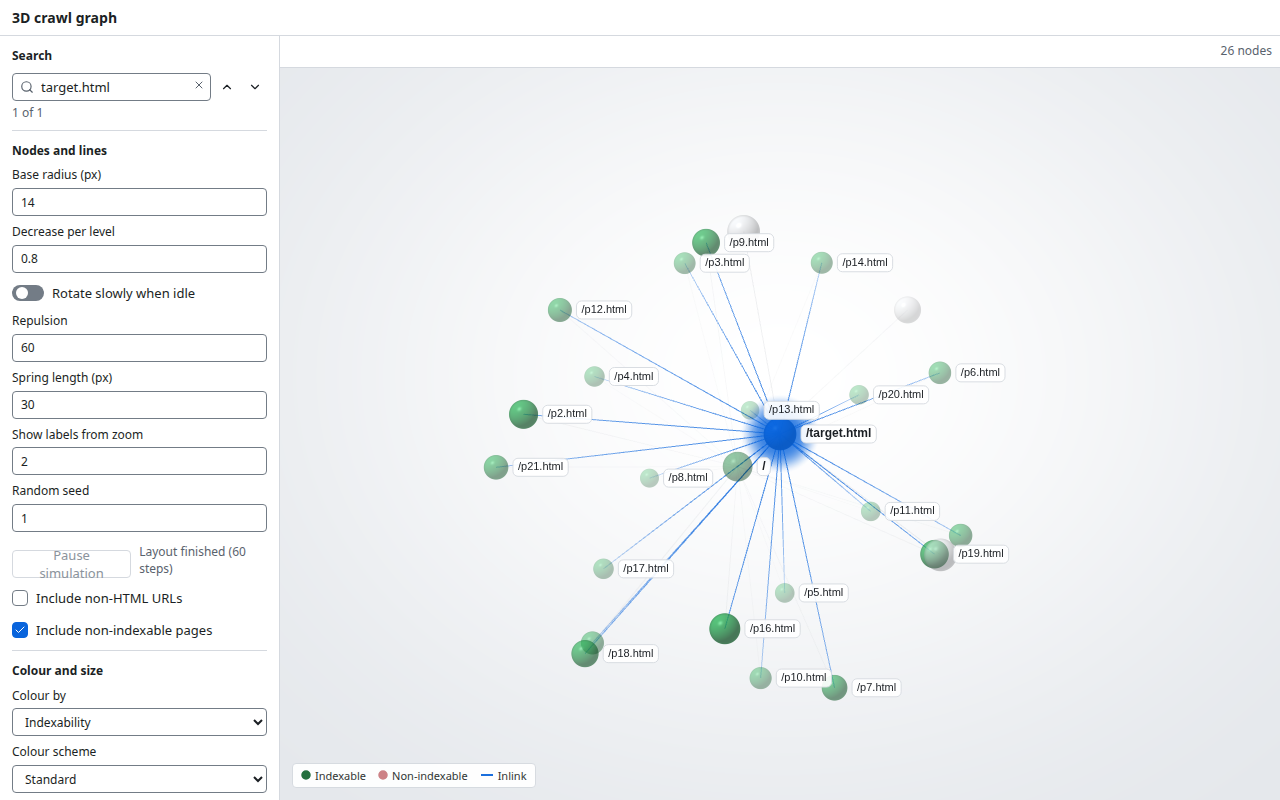
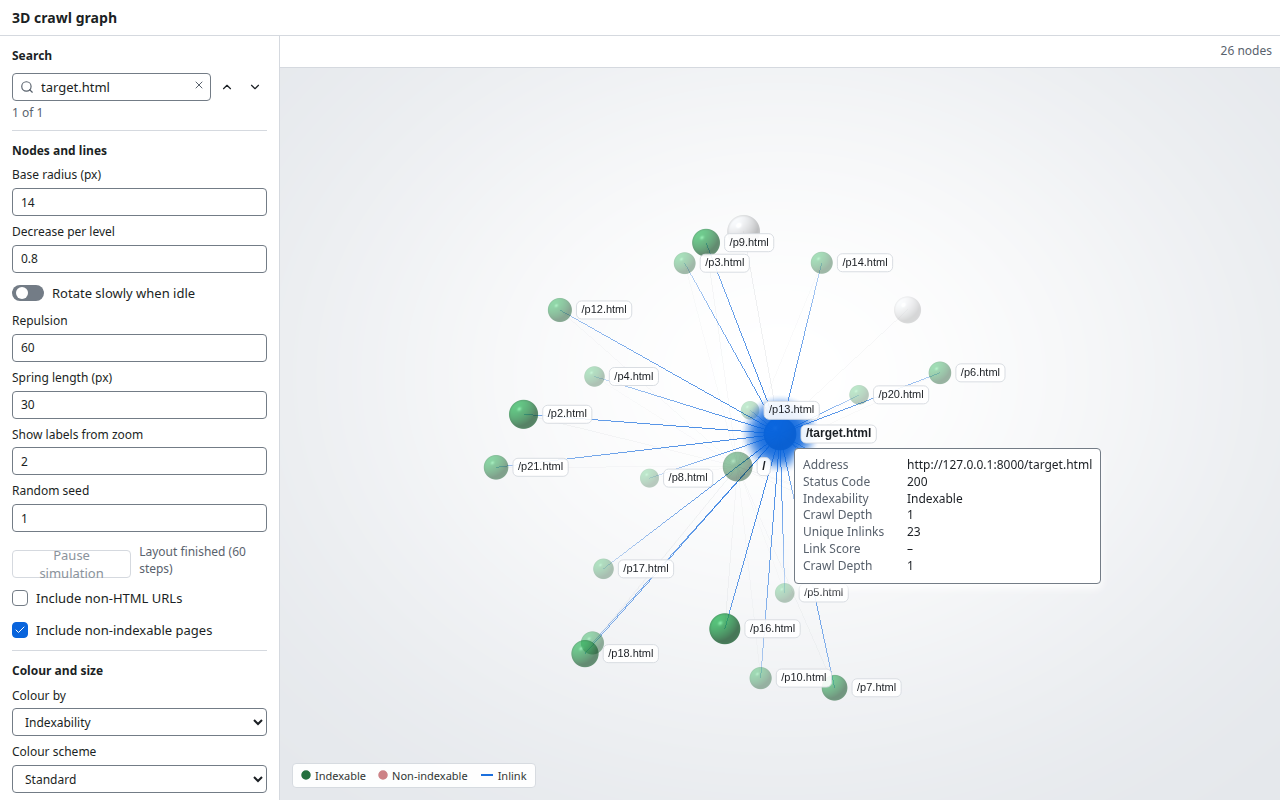
plan: Bericht M3-V02 – Fable-Fixrunde, A/B-Messung, Mac-mini-Rezept Punkte 1–12

Changed region(s): [[0.5312, 0.5, 0.8438, 0.75]]

diff --git a/docs/plan/M3-reports/v02.md b/docs/plan/M3-reports/v02.md
@@ -172,6 +172,29 @@ Layout-Schritt im Vitest-Lauf siehe Protokoll `force3d.test.ts`.
    Leerlauf und beim Ziehen).
 5. Stellschraube bei Unterschreitung: Knotengrenze in der Seitenleiste (Standard 100 000) bzw. `MAX_BUDGET_3D`.
 
+**Ergänzung nach der Fable-Prüfung** (Fable-Punkte 1–12). Hinweis: Der Wortlaut von Fables Punkten 1–12 lag dem Paket
+nicht vor (nur die Fixliste des Orchestrators); die folgende Nummerierung deckt die genannten Befunde ab und ist bei
+Abweichung an Fables Liste anzugleichen.
+
+1. **Leerlauf** nach Layoutende 10 s ohne Eingabe: Rendering Frames (Mittel, 5. Perzentil), Kriterium ≥ 30 fps.
+2. **Drehen** 10 s Linksziehen (wie Schritt 2 oben).
+3. **Nach Suche, Zoom ≥ 3:** Suchfeld mit einer eindeutigen Adresse (`p50000.html` im Generator bzw. eine tiefe URL des
+   Crawls), Flug abwarten, dann 10 s Leerlauf und 10 s Drehen – hier sind die Beschriftungen der 150 nächsten Knoten aktiv.
+4. **A/B Kontext-Flags:** Standard (`GL_ANTIALIAS = false`, kein `preserveDrawingBuffer`) gegen `GL_ANTIALIAS = true` in
+   `features/viz/model/gl3d.ts` – Punkte 1–3 je dreimal abwechselnd; zusätzlich je ein Screenshot (Kanten an den Kugeln,
+   Linien) zum Sichtvergleich wie `v02/polish/aa-an-*`/`aa-aus-*`.
+5. **Eingeblendete Links** (Rechtsklick › „Inlinks zeigen“ auf der Start-URL): Punkte 1 und 2.
+6. **3D-Verzeichnisgraph:** Punkte 1 und 2.
+7. **Hover:** Zeiger 10 s über einem dichten Knotenhaufen bewegen – Bildrate und Reaktionszeit des Tooltips (300 ms).
+8. **Kontextverlust:** in der Web-Inspector-Konsole `document.querySelector("canvas.os-viz-canvas-3d").getContext("webgl2").getExtension("WEBGL_lose_context").loseContext()`
+   → Hinweis „Grafikkontext …“ sichtbar; danach `restoreContext()` (gleiche Erweiterung) → Szene vollständig zurück.
+9. **Pixelverhältnis-Wechsel:** Fenster zwischen Retina- und Nicht-Retina-Bildschirm verschieben – Zeichenfläche bleibt
+   scharf, Treffertest trifft weiterhin (Rechtsklick auf einen Knoten).
+10. **PNG 1×/2×** nach Kontextwiederherstellung und nach DPR-Wechsel: Bild mit Knoten und Beschriftungen.
+11. **Speicher:** Aktivitätsanzeige, RSS des WebContent-Prozesses vor dem Öffnen, nach Layoutende und nach fünfmaligem
+    Öffnen/Schließen des Fensters (keine stetige Zunahme).
+12. **Release-Build** (nicht Entwicklungsbuild) und ruhige Maschine (D5); Ergebnisse mit Uhrzeit und Last im Protokoll.
+
 ## CI
 
 Push von `m3/v02` (Commit `39b49fff`) und Dispatch durch das Paket; Läufe nicht abgewartet:
@@ -215,9 +238,9 @@ samt `v02/`-Screenshots). `ui/menu/contributions/main.ts`, `package.json` und `p
 
 - **Leistungsbeleg auf Referenzhardware** (UI-098 ≥ 30 fps bei 100 000 Knoten) steht aus – Messung durch den
   Orchestrator (Rezept oben). Der Server-Richtwert ist Software-WebGL und damit kein Maßstab für die GPU.
-- **3D-Layout bei 100 000 Knoten** endet nach 10 s (≈ 58 Schritte auf dem Server) vor der vollständigen Abkühlung; die
-  Anfangsanordnung (Kugelschalen um die Eltern) ist bereits brauchbar. Falls die Bildqualität auf dem Mac mini nicht
-  reicht: θ für 3D erhöhen oder die Zeitgrenze für 3D verlängern (Spec-Frage: gilt die 10-s-Regel aus UI-092 auch für 3D?).
+- **3D-Layout bei 100 000 Knoten** endet nach 10 s (≈ 58 Schritte auf dem Server) vor der vollständigen Abkühlung (die
+  10-s-Grenze gilt laut Klärung `cd824458` auch für 3D); die Anfangsanordnung ist bereits brauchbar. Falls die Bildqualität
+  auf dem Mac mini nicht reicht: θ für 3D erhöhen.
 - 2D: Wird nach „Teilbaum öffnen“ eine Link-Option geändert, lädt die Ansicht ohne die nachgeladenen Kinder neu (wie jede
   andere Optionsänderung bisher). Bei „Teilbaum öffnen“ mit eingeblendeten Links bleibt die Einblendung erhalten.
 - 2D-Arten behalten die Ankertext-Aufnahme und damit die bisherige `links`-Grenze (250 000 Zeilen). Vorschlag für später:
@@ -331,6 +354,63 @@ Häufigkeitsstufen, Ease-in-out, Fixture). Endstand per SHA-256 mit dem Server v
 Push `67c9d9ba`, Dispatch `ui-e2e.yml` **41635441483** (nicht abgewartet), dazu `linux-core` per Push 41635441794.
 Stand der Läufe aus Auftrag 1: `ui-e2e` 41628315094 erfolgreich, `linux-core` 41628370920 erfolgreich (41628313202 durch
 den Folge-Push abgebrochen), `ci.yml` 41628311334 noch in der Warteschlange.
+
+## Fable-Fixrunde (Prüfung needs_work 87, 03.11.2026)
+
+Entscheidung „eigene WebGL2-Schicht“ von Fable akzeptiert. Umgesetzt (Commit `62afb7fa`):
+
+1. **Kontextverlust (mittel):** `webglcontextlost` → `preventDefault`, Animation und Kameraflug anhalten, `gl = null`,
+   Hinweis „Der Grafikkontext ging verloren und wird wiederhergestellt …“ (`data-testid="viz-context-lost"`);
+   `webglcontextrestored` → `GraphGl` neu erzeugen und mit `uploadScene` Knoten, Kanten, Farben, Zusatzkanten,
+   Lichtschein und Positionen neu laden, Beschriftungs-Cache verwerfen, zeichnen; schlägt das Erzeugen fehl, erscheint der
+   Hinweis „braucht WebGL 2“ statt einer Leerfläche. Tests: `model/fable.test.ts` (vollständiges Neu-Hochladen) und E2E
+   `v02.spec.ts` „Kontextverlust …“ mit `WEBGL_lose_context.loseContext()/restoreContext()` (Hinweis sichtbar,
+   `webgl` falsch/wahr, danach PNG mit farbigen Knoten).
+2. **Beschriftungspass (mittel):** Tiefe direkt aus der dritten Zeile der Sichtmatrix (`viewDepth`), die 150 nächsten per
+   Max-Heap (`nearestK`, projiziert wird nur, wer näher liegt als der bisher fernste Kandidat; Test gegen Vollsortierung
+   mit 20 000 Knoten, < 25 % geprüft). Die Beschriftungsfläche wird nur neu gezeichnet, wenn sich Kamera, Positionen
+   (Zähler je Layout-/Einschwing-Update), Größe/DPR, Hervorhebungen, Linkeinblendung oder Einstellungen ändern.
+   Messpunkt „nach Suche, Zoom ≥ 3“ ist im Rezept `perf3d.spec.ts` und oben (Punkt 3).
+3. **Picking (niedrig):** Treffertest höchstens einmal je Animationsbild mit der letzten Zeigerposition; während des
+   Ziehens keiner.
+4. **Kontext-Flags (niedrig):** `preserveDrawingBuffer` entfernt (der PNG-Export zeichnet und kopiert im selben
+   Durchlauf), Multisampling aus (`GL_ANTIALIAS = false`; Kugeln und Plaketten glätten ihre Ränder selbst). Sichtvergleich
+   `v02/polish/aa-an-3d-crawl-graph-{hell,dunkel}.png` gegen `aa-aus-…`: Kugeln unverändert, dünne Kanten minimal
+   härter – kein sichtbarer Nachteil.
+5. **DPR-Wechsel (niedrig):** `matchMedia("(resolution: <dpr>dppx)")` wie in `GraphCanvas`, nach jedem Wechsel für den
+   neuen Wert neu angemeldet; Zeichen- und Beschriftungsfläche werden neu skaliert.
+6. **Bericht:** 10-s-Frage aus „Offene Punkte“ gestrichen (Klärung `cd824458`), Mac-mini-Rezept um Punkte 1–12 ergänzt.
+
+### Server-Richtwerte vorher/nachher (3D 100 000 Knoten, Chromium headless, Software-WebGL, A/B abwechselnd)
+
+| Messung | vorher (`339122f1`) | nachher (`62afb7fa`) |
+|---|---|---|
+| Leerlauf | 13,4 / 13,9 fps | 33,8 / 35,4 fps |
+| Drehen | 13,9 / 14,2 fps | 35,7 / 35,7 fps |
+| nach Suche (Zoom ≥ 3), Leerlauf | 15,4 / 16,5 fps | 41,3 / 41,0 fps |
+| nach Suche (Zoom ≥ 3), Drehen | 15,3 / 15,7 fps | 40,3 / 39,7 fps |
+
+Serverlast 11–13 (andere Pakete). Zuordnung (Einzelvariante): mit Multisampling, ohne `preserveDrawingBuffer` 14,1 /
+14,4 / 17,3 / 16,2 fps; ohne Multisampling, mit `preserveDrawingBuffer` 35,7 / 35,8 / 41,3 / 40,3 fps – der Gewinn stammt
+im Software-Rasterizer fast vollständig vom Multisampling; der Beschriftungs-Cache bringt im Fall „nach Suche“ rund
++10 % (15,4 → 17,3 bei sonst gleichem Kontext). Auf der GPU ist der Unterschied kleiner – Punkt 4 des Mac-mini-Rezepts.
+Damit liegt der Server-Richtwert erstmals über 30 fps; verbindlich bleibt die Messung auf Referenzhardware.
+2D unverändert: 10 000 Knoten erstes Bild 334 ms, Layout 3,2 s (konvergiert), 60 fps; Baum 56/53 ms.
+
+### Prüfungen (Server, Endstand `62afb7fa`)
+
+| Prüfung | Ergebnis |
+|---|---|
+| `cargo fmt --all --check`, `cargo clippy --workspace --all-targets --locked -- -D warnings` | ok (kein Rust geändert) |
+| `cargo test` os-app `cmd_viz_v02`/`cmd_viz_snapshots`/`dto_exports`, os-analyze `graph_overlay`/`graph_dirs`/`graph_data`/`graph_limits` | ok: 26 + 21 |
+| `typecheck` | ok |
+| `npm run -w apps/desktop test` | ok: 112 Dateien, 940 Tests |
+| `check:licenses` / `check:static` | ok / ok |
+| Playwright `e2e/viz/**` chromium (mit `os-app-bridge`) | ok: 28 bestanden (neu: Kontextverlust), 9 übersprungen (Rezepte ohne Umgebungsvariable) |
+
+### CI
+
+CI3_PLATZHALTER
 
 ## Abschluss
 
